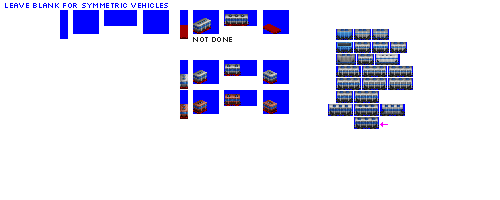
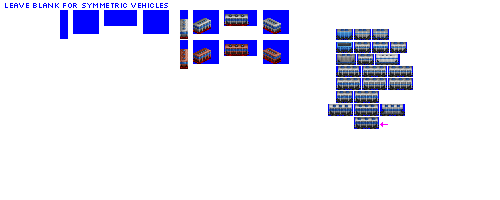
Change: sprites complete for gen 4B covered hopper car

Changed region(s): [[0.36, 0.09, 0.6, 0.6]]

diff --git a/src/vehicles/covered_hopper_cars.py b/src/vehicles/covered_hopper_cars.py
@@ -36,7 +36,8 @@ def main():
     consist = CoveredHopperCarConsist(roster='pony',
                                       base_numeric_id=1230,
                                       gen=4,
-                                      subtype='B')
+                                      subtype='B',
+                                      sprites_complete=True)
 
     consist.add_unit(type=FreightCar,
                      vehicle_length=6,
